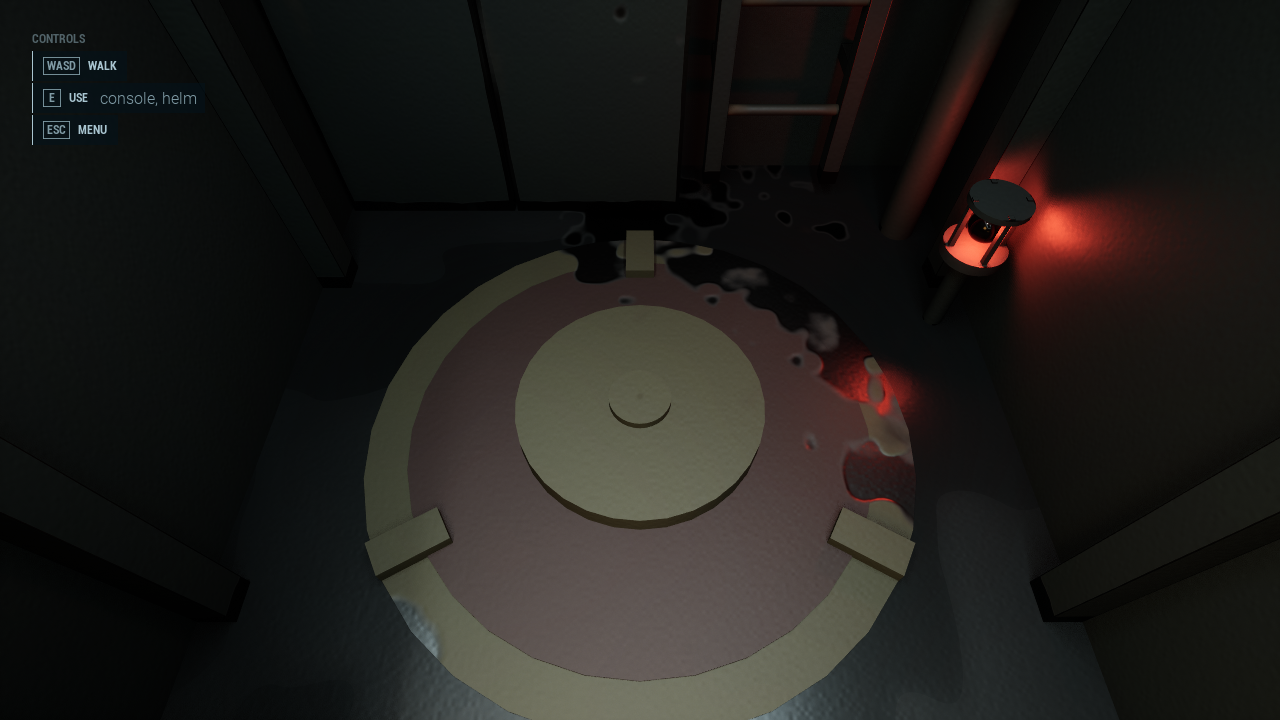
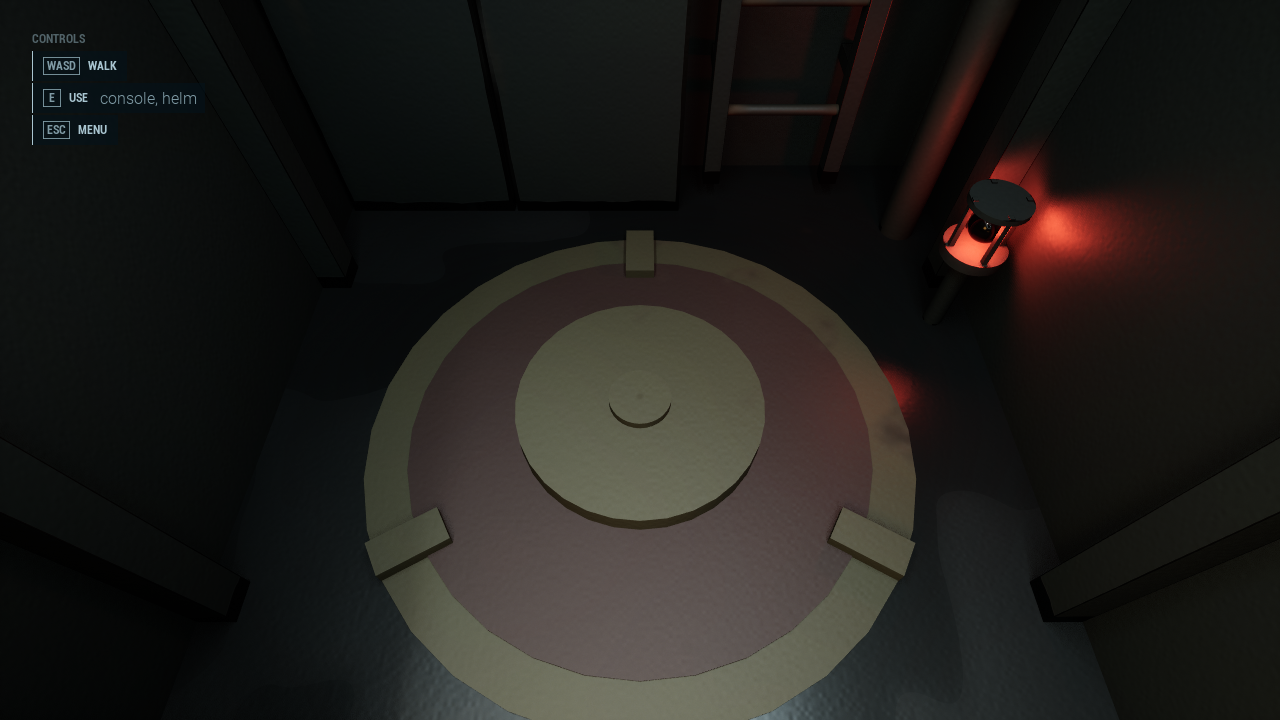
BT-01 inside: no torn blotches anywhere in the room (one wear cap)
The bezel's tears had the same cause on the deck round the hatch, the hatch ring and a locker
door: M_WornSteel's paint chips are about 55 cm across, so a Wear above about 0.15 reads as big
torn blotches, not wear.

- New tuning Look.RoomMaxWear (0.15): the room's shell paints (wall, floor, ceiling, hatch rim and
  cover, machine, seat) are held to it in ADeepSubRoom::ApplyLook. The bezel's own override is gone;
  it uses the capped wall paint.
- DeepRoomDress::Skin holds the dressing's materials (frame, pipe, brass) to the same cap with a
  dynamic instance when the asset's Wear is above it. No asset changed.
- The hull outside keeps its own paints. The finish itself waits for the look pass.

Frames re-taken: devlog/media/2026-11-17-inside-{helm-aft,hatch,plan}.png.

Changed region(s): [[0.4375, 0.3361, 0.7188, 0.5806], [0.6562, 0.6111, 0.7188, 0.7333], [0.3125, 0.8556, 0.3438, 0.9167]]

diff --git a/deep/Source/Deep/World/DeepSubRoom.cpp b/deep/Source/Deep/World/DeepSubRoom.cpp
@@ -317,7 +317,12 @@ void ADeepSubRoom::ApplyLook()
 {
 	const FDeepLookTuning& Look = UDeepTuningSettings::Get().Look;
 	const FDeepSubTuning& Sub = UDeepTuningSettings::Get().Sub;
-	const FSubPaints P = Paints();
+	// Every room paint held to the room's most wear (Look.RoomMaxWear): no torn blotches (the hull keeps its own).
+	FSubPaints P = Paints();
+	for (FSubSteel* S : { &P.Wall, &P.Floor, &P.Ceil, &P.Rim, &P.Cover, &P.Machine, &P.Seat })
+	{
+		S->Wear = FMath::Min(S->Wear, Look.RoomMaxWear);
+	}
 
 	const FVector Hatch = GetHatchLocation();
 	const float PuddleRadius = static_cast<float>(DeepRoomLayout::HatchRadiusCm(Sub) * PuddleRadii);
@@ -349,13 +354,9 @@ void ADeepSubRoom::ApplyLook()
 	}
 	SubScreen(ConsoleScreen, Look.ScreenGlow);
 	SubScreen(HelmScreen, Look.ScreenGlow);
-	FSubSteel Bezel = P.Wall;
-	// Only the machine's light wear: at the wall's chip scale (about 55 cm) a heavier wear tore bare grey-white
-	// blotches into the porthole frame's corners.
-	Bezel.Wear = P.Machine.Wear;
 	for (UStaticMeshComponent* Shape : WindowBezel)
 	{
-		SubSteel(Shape, Bezel);
+		SubSteel(Shape, P.Wall);
 	}
 	// Black water: nothing out there but what drifts past the glass.
 	DeepShapes::Tint(PortholeBackdrop, FLinearColor(0.004f, 0.008f, 0.01f));

diff --git a/deep/Source/Deep/World/DeepRoomDress.cpp b/deep/Source/Deep/World/DeepRoomDress.cpp
@@ -8,6 +8,7 @@
 #include "Engine/World.h"
 #include "EngineUtils.h"
 #include "HAL/IConsoleManager.h"
+#include "Materials/MaterialInstanceDynamic.h"
 #include "Materials/MaterialInterface.h"
 #include "Sim/DeepRules.h"
 #include "Sim/DeepTuningSettings.h"
@@ -483,6 +484,15 @@ void DeepRoomDress::Skin(const TArray<TObjectPtr<UInstancedStaticMeshComponent>>
 		const int32 Mat = Index % int32(EDeepRoomMat::Count);
 		if (UMaterialInterface* M = Cast<UMaterialInterface>(Paths[Mat]->TryLoad()))
 		{
+			// Held to the room's most wear (Look.RoomMaxWear) like the shell: a heavier chip tore a locker door.
+			float Wear = 0.f;
+			const float MaxWear = UDeepTuningSettings::Get().Look.RoomMaxWear;
+			if (M->GetScalarParameterValue(FHashedMaterialParameterInfo(TEXT("Wear")), Wear) && Wear > MaxWear)
+			{
+				UMaterialInstanceDynamic* Held = UMaterialInstanceDynamic::Create(M, Ism);
+				Held->SetScalarParameterValue(TEXT("Wear"), MaxWear);
+				M = Held;
+			}
 			Ism->SetMaterial(0, M);
 		}
 		else

diff --git a/deep/Source/Deep/Sim/DeepTuningTypes.h b/deep/Source/Deep/Sim/DeepTuningTypes.h
@@ -1067,6 +1067,14 @@ struct FDeepLookTuning
 	UPROPERTY(EditAnywhere, BlueprintReadWrite, Category = "Look|Room")
 	float RoomExposureBias = 0.f;
 
+	/**
+	 * The most paint wear (M_WornSteel's Wear) any surface in the room gets: its shell, the hatch and the dressing. The
+	 * chips are about 55 cm across, so above this they read as big torn blotches (the deck, a locker door, the porthole
+	 * frame, Nov 17) instead of wear. The finish itself waits for the look pass.
+	 */
+	UPROPERTY(EditAnywhere, BlueprintReadWrite, Category = "Look|Room")
+	float RoomMaxWear = 0.15f;
+
 	/** The old ceiling light, kept as a soft fill at this fraction of Sub.RoomLightIntensity. */
 	UPROPERTY(EditAnywhere, BlueprintReadWrite, Category = "Look|Room")
 	float RoomFillScale = 0.2f;

diff --git a/deep-claude-brain/05 - Log/Lane Notes/sub-inside.md b/deep-claude-brain/05 - Log/Lane Notes/sub-inside.md
@@ -51,4 +51,5 @@ Branch `build/sub-inside`, worktree `.wt/subs`. Brief: fit the code-built room (
 - The two grey-white torn patches on the porthole panel were bare-steel chips of `M_WornSteel` on the window bezel, whose wear was 0.45: at the chip scale (about 55 cm) that tore big blotches into its port corners. The bezel now has the machine's wear (0.15).
 - Spawn on the deck: the start and the enter stand put the capsule centre at `Sub.InsideStandHeightM` (0.82 m: half height plus the walker's floor gap). No drop.
 - The dress blocks walkers: its instanced meshes are query-only, Pawn blocks, every other channel ignores, so traces, the camera and the sonar pass as before. Test `Deep.World.SubRoomStand`.
-- Plan frame: with the roof off, the room's exposure volume and its look (`IsInRoomLook`: no water fog or snow) reach `Sub.InsidePlanViewHeightM` over the deck. Still open: the deck shows the same grey-white chip blotches from above (Floor wear); a look-pass item.
+- Plan frame: with the roof off, the room's exposure volume and its look (`IsInRoomLook`: no water fog or snow) reach `Sub.InsidePlanViewHeightM` over the deck.
+- The same chips tore the deck, the hatch ring and a locker door: every room paint and the dressing's materials are now held to `Look.RoomMaxWear` (0.15). The hull outside keeps its own wear. The finish waits for the look pass.
